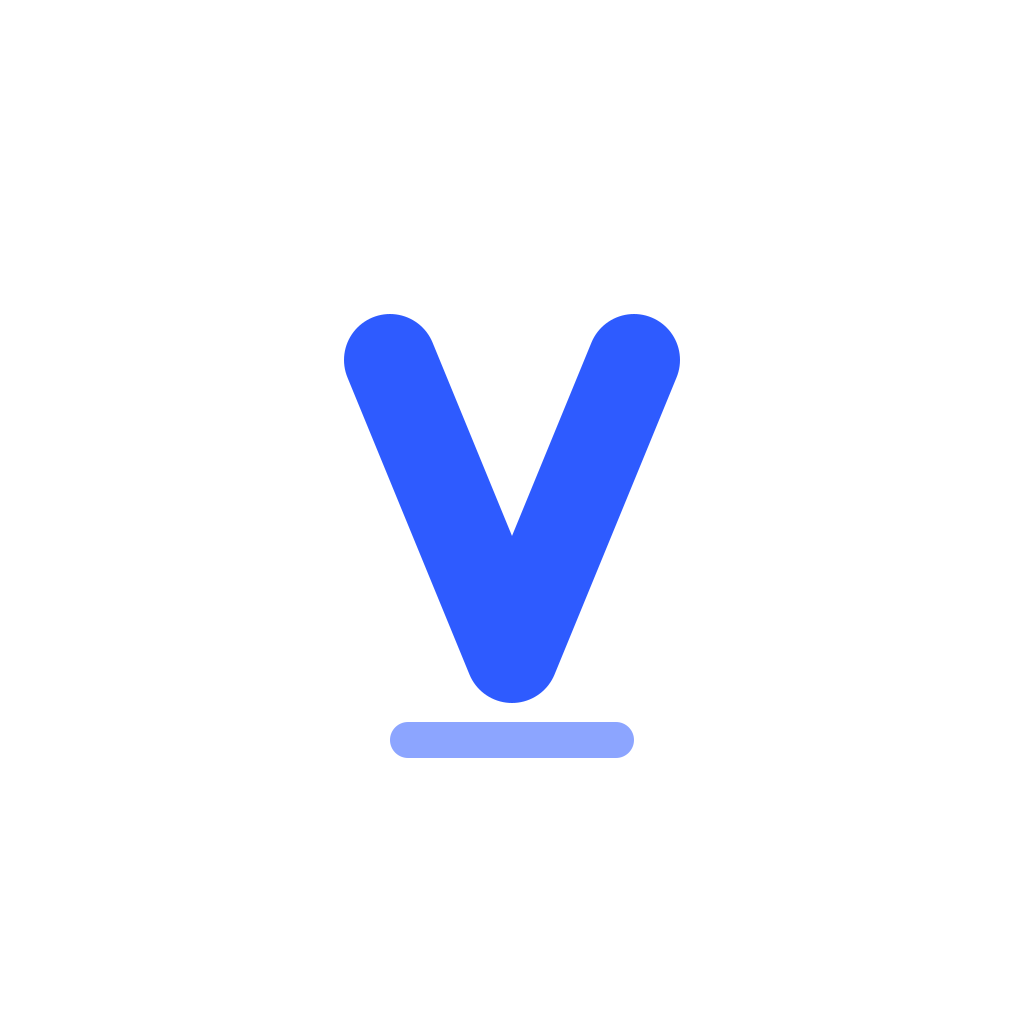
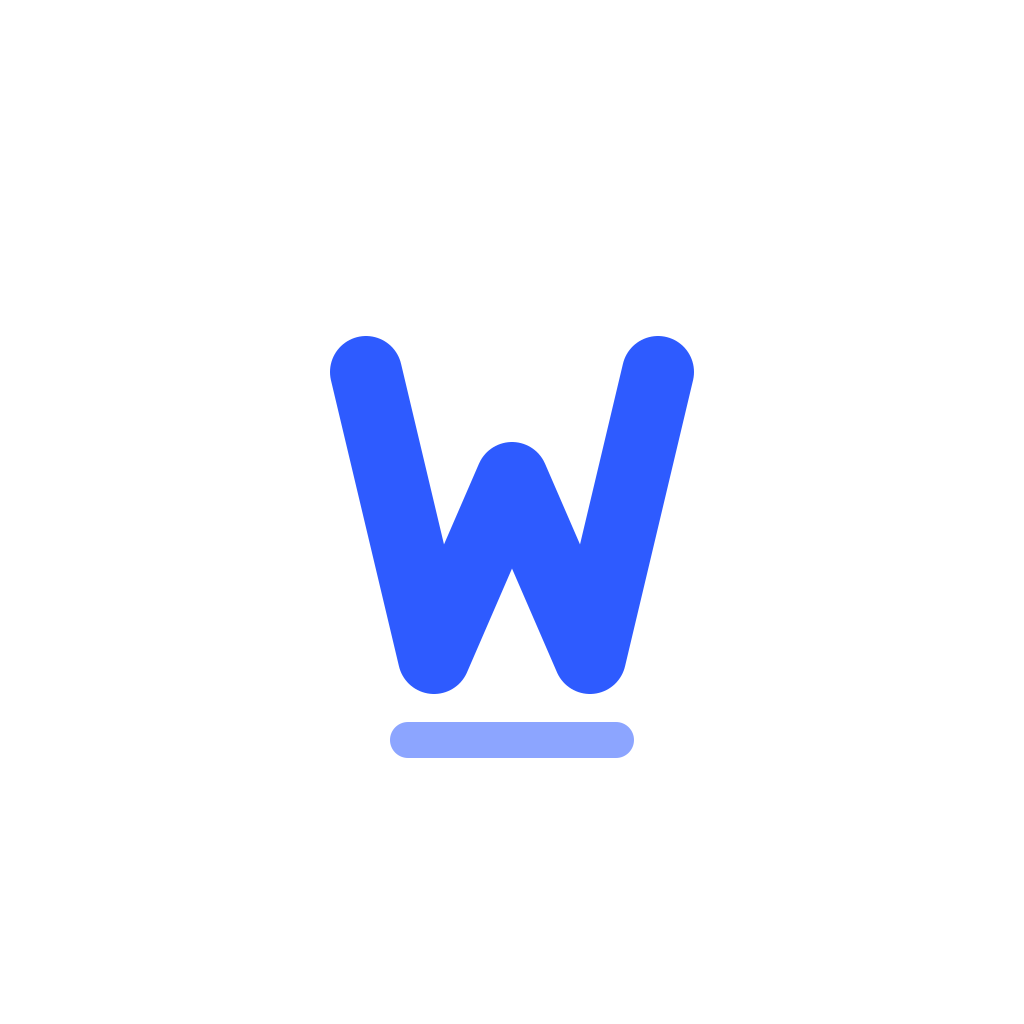
Rename the app from VocabSAT to Wordwise
SAT is a registered trademark of the College Board, and carrying it in the
app name invites both App Store scrutiny and a trademark complaint. The new
name describes the skill without naming any exam.

Renames the display name, slug, URL scheme, package name and bundle
identifiers (now com.qerberos.wordwise), redraws the icon set around a W,
and links a new EAS project matching the slug.

The AsyncStorage key is deliberately unchanged so existing progress on any
installed copy survives the rename.

Changed region(s): [[0.3125, 0.2812, 0.6875, 0.6875]]

diff --git a/app/(tabs)/index.tsx b/app/(tabs)/index.tsx
@@ -3,4 +3,4 @@ import { Pressable, ScrollView, Text, View } from 'react-native';
 import { Card, Button, Screen, colors, s } from '@/ui';
 import { useStore, isDue } from '@/store';
 import { VOCAB } from '@/vocab';
-export default function Home(){ const r=useRouter(); const {stats,streak,startSession,sessionIndex,todayIds}=useStore(); const mastered=VOCAB.filter(w=>(stats[w.id]?.mastery??0)>=85).length; const due=VOCAB.filter(w=>isDue(stats[w.id])).length; const mastery=Math.round(VOCAB.reduce((a,w)=>a+(stats[w.id]?.mastery??0),0)/VOCAB.length); const sessionProgress=todayIds.length?Math.round((Math.min(sessionIndex,todayIds.length)/todayIds.length)*100):0; return <Screen><ScrollView showsVerticalScrollIndicator={false} contentContainerStyle={s.scroll}><View style={s.row}><View><Text style={{fontSize:13,fontWeight:'800',color:colors.blue}}>VOCABSAT</Text><Text style={[s.title,{marginTop:8}]}>Today's focus</Text></View><View style={s.pill}><Text style={s.pillText}>🔥 {streak} days</Text></View></View><Text style={[s.subtitle,{marginTop:8}]}>Learn the words that matter most, then practice them in context.</Text><Card style={{marginTop:22}}><View style={s.row}><View><Text style={{fontSize:12,color:colors.muted,fontWeight:'700'}}>TODAY'S GOAL</Text><Text style={{fontSize:28,fontWeight:'800',marginTop:6}}>10 words</Text></View><Text style={{fontSize:30}}>→</Text></View><View style={{height:10,borderRadius:8,backgroundColor:'#ECEEF3',marginTop:18,overflow:'hidden'}}><View style={{height:10,width:`${sessionProgress}%`,backgroundColor:colors.blue}}/></View><Text style={[s.subtitle,{marginTop:8}]}>Personalized from missed words, high-priority words, and review due today.</Text><View style={{marginTop:16}}><Button label="START TODAY'S 10" onPress={()=>{startSession();r.push('/learn')}}/></View></Card><View style={{flexDirection:'row',gap:12,marginTop:14}}><Pressable style={{flex:1}} onPress={()=>r.push('/review')} accessibilityRole="button" accessibilityLabel="Show words that need review"><Card><View style={s.row}><Text style={{fontSize:26}}>🔴</Text><Text style={{fontSize:18,color:colors.muted}}>›</Text></View><Text style={{fontSize:28,fontWeight:'800',marginTop:8}}>{due}</Text><Text style={s.subtitle}>Need review</Text></Card></Pressable><Card style={{flex:1}}><Text style={{fontSize:26}}>⭐</Text><Text style={{fontSize:28,fontWeight:'800',marginTop:8}}>{mastered}</Text><Text style={s.subtitle}>Mastered</Text></Card></View><Card style={{marginTop:14}}><Text style={{fontSize:12,color:colors.muted,fontWeight:'700'}}>YOUR SAT VOCABULARY</Text><Text style={{fontSize:34,fontWeight:'800',marginTop:6}}>{mastery}%</Text><View style={{height:12,borderRadius:8,backgroundColor:'#ECEEF3',marginTop:10,overflow:'hidden'}}><View style={{height:12,width:`${mastery}%`,backgroundColor:colors.green}}/></View><Text style={[s.subtitle,{marginTop:12}]}>The score combines your accuracy and recent practice. It is a personal learning metric, not an official College Board statistic.</Text></Card></ScrollView></Screen> }
+export default function Home(){ const r=useRouter(); const {stats,streak,startSession,sessionIndex,todayIds}=useStore(); const mastered=VOCAB.filter(w=>(stats[w.id]?.mastery??0)>=85).length; const due=VOCAB.filter(w=>isDue(stats[w.id])).length; const mastery=Math.round(VOCAB.reduce((a,w)=>a+(stats[w.id]?.mastery??0),0)/VOCAB.length); const sessionProgress=todayIds.length?Math.round((Math.min(sessionIndex,todayIds.length)/todayIds.length)*100):0; return <Screen><ScrollView showsVerticalScrollIndicator={false} contentContainerStyle={s.scroll}><View style={s.row}><View><Text style={{fontSize:13,fontWeight:'800',color:colors.blue}}>WORDWISE</Text><Text style={[s.title,{marginTop:8}]}>Today's focus</Text></View><View style={s.pill}><Text style={s.pillText}>🔥 {streak} days</Text></View></View><Text style={[s.subtitle,{marginTop:8}]}>Learn the words that matter most, then practice them in context.</Text><Card style={{marginTop:22}}><View style={s.row}><View><Text style={{fontSize:12,color:colors.muted,fontWeight:'700'}}>TODAY'S GOAL</Text><Text style={{fontSize:28,fontWeight:'800',marginTop:6}}>10 words</Text></View><Text style={{fontSize:30}}>→</Text></View><View style={{height:10,borderRadius:8,backgroundColor:'#ECEEF3',marginTop:18,overflow:'hidden'}}><View style={{height:10,width:`${sessionProgress}%`,backgroundColor:colors.blue}}/></View><Text style={[s.subtitle,{marginTop:8}]}>Personalized from missed words, high-priority words, and review due today.</Text><View style={{marginTop:16}}><Button label="START TODAY'S 10" onPress={()=>{startSession();r.push('/learn')}}/></View></Card><View style={{flexDirection:'row',gap:12,marginTop:14}}><Pressable style={{flex:1}} onPress={()=>r.push('/review')} accessibilityRole="button" accessibilityLabel="Show words that need review"><Card><View style={s.row}><Text style={{fontSize:26}}>🔴</Text><Text style={{fontSize:18,color:colors.muted}}>›</Text></View><Text style={{fontSize:28,fontWeight:'800',marginTop:8}}>{due}</Text><Text style={s.subtitle}>Need review</Text></Card></Pressable><Card style={{flex:1}}><Text style={{fontSize:26}}>⭐</Text><Text style={{fontSize:28,fontWeight:'800',marginTop:8}}>{mastered}</Text><Text style={s.subtitle}>Mastered</Text></Card></View><Card style={{marginTop:14}}><Text style={{fontSize:12,color:colors.muted,fontWeight:'700'}}>YOUR SAT VOCABULARY</Text><Text style={{fontSize:34,fontWeight:'800',marginTop:6}}>{mastery}%</Text><View style={{height:12,borderRadius:8,backgroundColor:'#ECEEF3',marginTop:10,overflow:'hidden'}}><View style={{height:12,width:`${mastery}%`,backgroundColor:colors.green}}/></View><Text style={[s.subtitle,{marginTop:12}]}>The score combines your accuracy and recent practice. It is a personal learning metric, not an official College Board statistic.</Text></Card></ScrollView></Screen> }

diff --git a/README.md b/README.md
@@ -1,4 +1,4 @@
-# VocabSAT v0.2.4
+# Wordwise v0.2.4
 
 A local-first SAT vocabulary coaching prototype based on the supplied project transcript.
 
